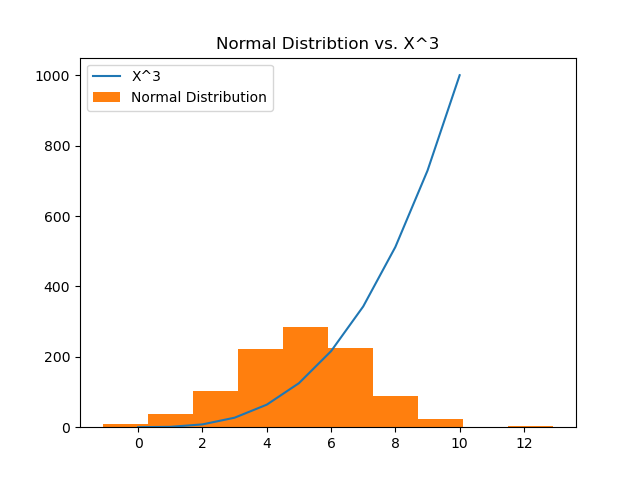
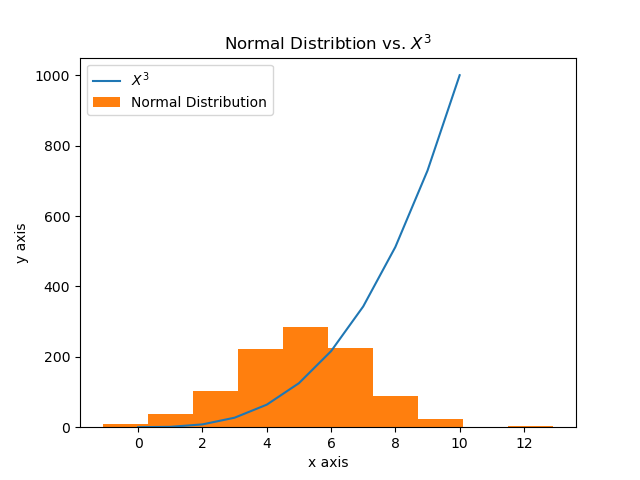
just added some overcommenting

diff --git a/plottask.py b/plottask.py
@@ -3,36 +3,67 @@
 
 #author: gerry callaghan
 
-import matplotlib.pyplot as plt
-import numpy as np
+import matplotlib.pyplot as plt # this library has some functions that make plotting data easier
+import numpy as np # this library allows us perform functions on our arrays
 
-#I'm going to seed my random numbers so i get the same numbers each time
+# I'm going to seed my random numbers so i get the same set of random numbers each time
 np.random.seed(1)
-#the first number is the mean, the second is the standard deviaton, third number is the number of observations
-# so my normal distribution is expressed as follows
+
+# initialise my variable normal_data equal to the normal distribution of random numbers
 normal_data= np.random.normal(5, 2,size=1000)
+# the first number 5 is the mean, the second number 2 is the standard deviaton, 
+# and the third number 1000 is the number of observations
 
-# my linegraph is going to be an array containing values between 0 and 10, these will be my horiztonal axis points
+# Now to plot my series of numbers
+# my line graph is going to be a numpy array containing values between 0 and 10, 
+# these will be my horizontal axis points
 xpoints=np.array([0,1,2,3,4,5,6,7,8,9,10])
-#print(f"xpoints are: {xpoints}")
+# print(f"x-axis points are: {xpoints}")
 
-#my vertical axis points will then be the x-axis value cubed
+
+# my vertical y-axis points will then be equal to values of the x-axis (see the array xpoints above) cubed
+# we cube the array by multiplying it by itself again and again
+# Note our numpy array xpoints with square brackets is not like a matrix which also has square brackets
+# we don't have to transpose it to multiply by itself as in matrices, forget row vs columns, 
+# we can think of the array as just a vertical column of numbers inside square brackets
 ypoints=xpoints*xpoints*xpoints
+# think of mulitplying across each of the three instances of our xpoints array
+# ypoints = [0x0x0, 1x1x1, 2x2x2, 3x3x3, 4x4x4, 5x5x5, 6x6x6, 7x7x7, 8x8x8, 9x9x9, 10x10x10]
+# ypoints = [0,1,8,27,64,125,216,343,512,729,1000]
+# print(f"y-axis points are: {ypoints}")
+
 
 # i plot my line graph by passing the x points, y points, and the label
-plt.plot(xpoints, ypoints,label="X^3")
+plt.plot(xpoints, ypoints,label="$X^3$") # this is where matplotlib does the heavy lifting for us, we pass three variables
+# the first variable is our array containing the x-axis coordinates, 
+# the second variable is our array containing the y-axis coordinates, 
+# the third variable is name of the series for the legend,
+# the dollar symbols either side of X^3 are latex 
+# - examples of latext from here https://stackoverflow.com/questions/4028267/how-to-render-latex-markup-using-python
+# it just displays the  3 as a superscript so it's visually easier to read
 
-# i plot my line graph by passing the normal distribution data and the label
+# i plot my line graph by passing the normal distribution 
+# comprising of random numbers with mean 5, stddev of 2) 
+# and the name of the series for the legend
 plt.hist(normal_data,label="Normal Distribution")
 
+# addition of labels and titles as per lab session and here https://www.w3schools.com/python/matplotlib_labels.asp
+
+# I want to labels. 
+plt.xlabel('x axis') 
+plt.ylabel('y axis')
+
 #I want to put a title on my chart as follows
-plt.title("Normal Distribtion vs. X^3")
+plt.title("Normal Distribtion vs. $X^3$")
 
 # i want to add a legend as follows
+# it shows you how to add a legend here https://www.w3schools.com/python/matplotlib_pie_charts.asp
+# of course in their case on w3schools, they didn't explicity explain that their labels array were for BOTH on the piechart 
+# and for the legend - thanks to trial and error it worked
 plt.legend()
 
-#now to show it
-plt.show()
+# now to show it
+#plt.show()
 
-#now to save the chart
+# or alternatively to save the chart
 plt.savefig("Norm_Dis_vs_X-cubed")
